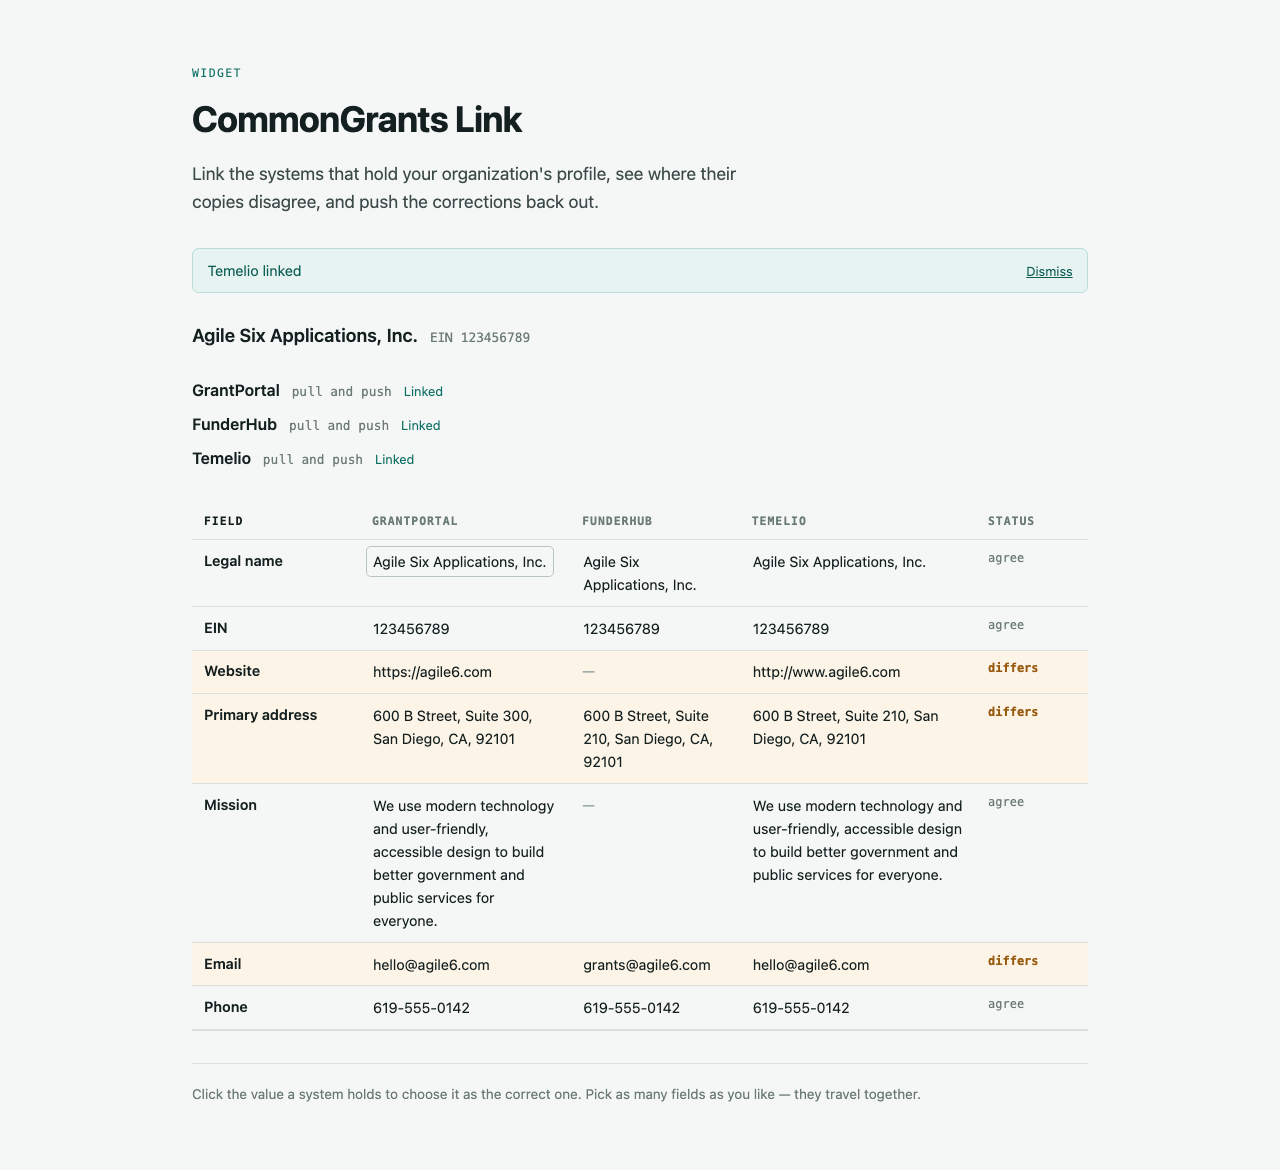
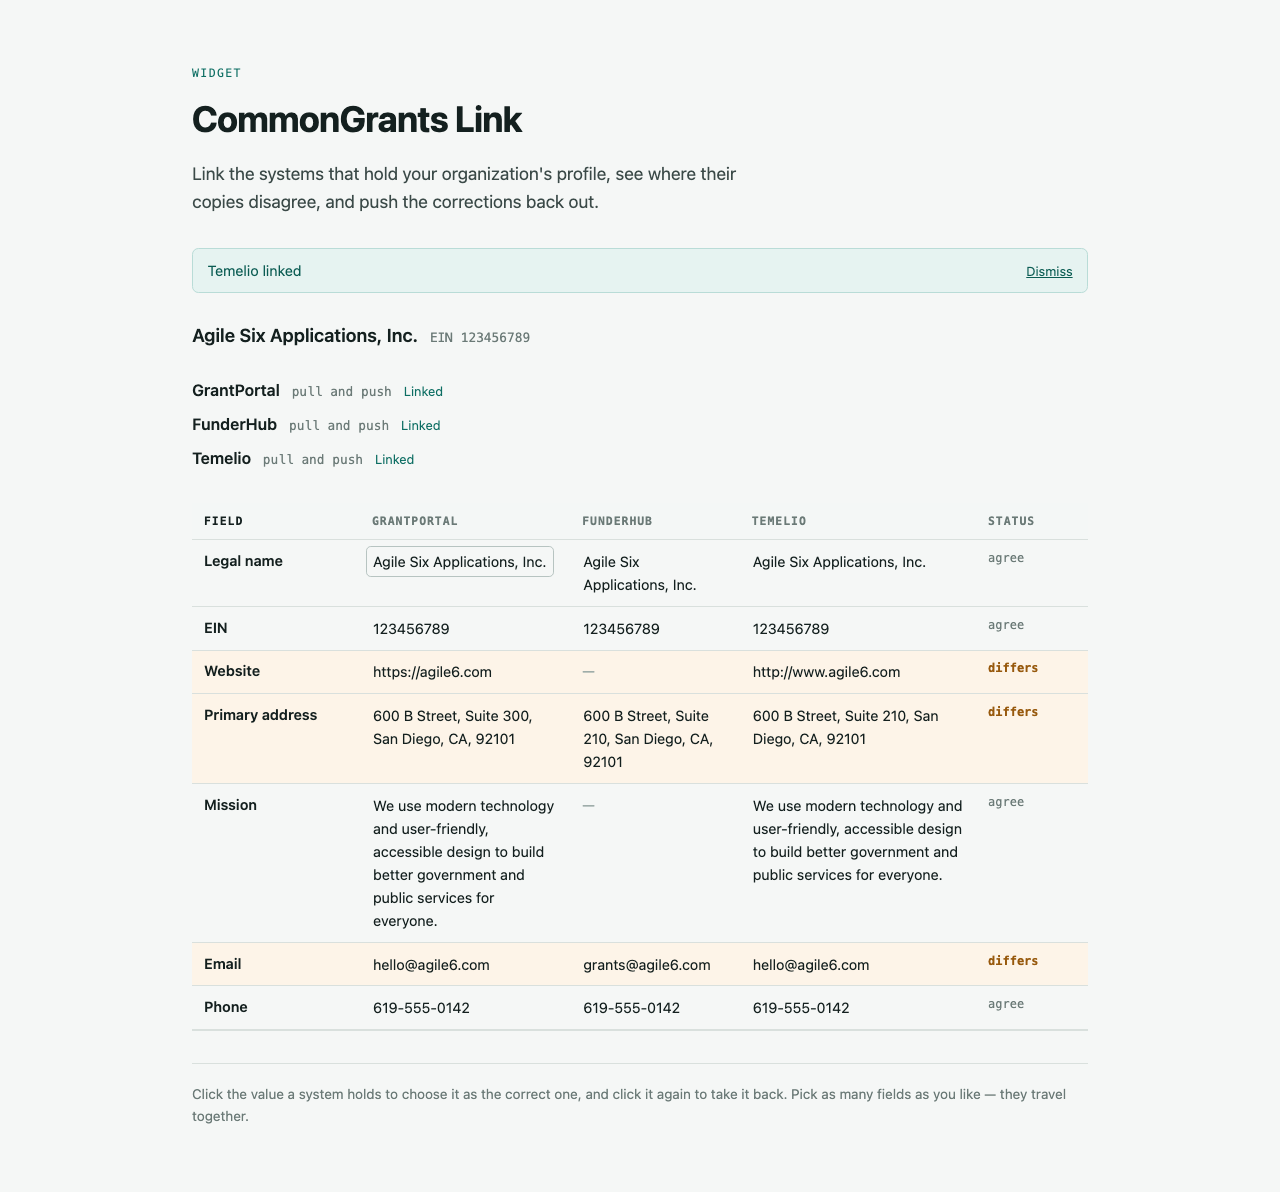
feat(link): clicking the chosen value again takes the choice back
The cells carry `aria-pressed`, so they already described themselves as
toggles to anyone not looking at the highlight — and a control that reports
itself pressed but cannot be unpressed is lying about what a second click does.
Taking a pick back meant finding its Remove button in the panel below instead.

Clicking a *different* cell in the same row still replaces that row's choice
rather than clearing it: one field cannot travel with two values, and toggling
there would make switching between two candidates a two-click operation.

Both halves are pinned, and the prompt and the demo script say so — the
instruction on screen was "click the value to choose it", which was the whole
story before and is now half of it.

diff --git a/e2e/specs/widget.spec.ts b/e2e/specs/widget.spec.ts
@@ -494,6 +494,50 @@ test("picking two rows sends them together, and each pick can be taken back", as
   await expect(page.getByTestId("cell-socials.website-temelio")).toContainText(PORTAL_WEBSITE);
 });
 
+test("clicking the cell that is already chosen takes the choice back", async ({ page }) => {
+  await openConnected(page);
+
+  const cell = page.getByTestId("cell-addresses.primary-portal");
+
+  await page.getByTestId("pick-addresses.primary-portal").click();
+  await expect(cell).toHaveAttribute("data-selected", "true");
+  await expect(page.getByTestId("selected-addresses.primary")).toBeVisible();
+
+  // The same cell again. It carries `aria-pressed`, so it describes itself as
+  // a toggle to anyone not looking at the highlight — a second click has to
+  // undo the first rather than re-assert it.
+  await page.getByTestId("pick-addresses.primary-portal").click();
+  await expect(cell).toHaveAttribute("data-selected", "false");
+  await expect(page.getByTestId("selected-addresses.primary")).toHaveCount(0);
+
+  // Back to nothing chosen, so the panel is offering nothing to send.
+  await expect(page.getByTestId("prompt")).toBeVisible();
+  await expect(page.getByTestId("sync")).toBeHidden();
+});
+
+test("clicking a different cell in a chosen row replaces the choice rather than clearing it", async ({
+  page,
+}) => {
+  await openConnected(page);
+
+  await page.getByTestId("pick-addresses.primary-portal").click();
+
+  // A different system in the same row is a change of mind, not a toggle: one
+  // field cannot travel with two values, and clearing the row here would make
+  // switching between two candidates a two-click operation.
+  await page.getByTestId("pick-addresses.primary-funderhub").click();
+
+  await expect(page.getByTestId("selected-addresses.primary")).toContainText(FUNDERHUB_STREET2);
+  await expect(page.getByTestId("cell-addresses.primary-portal")).toHaveAttribute(
+    "data-selected",
+    "false",
+  );
+  await expect(page.getByTestId("cell-addresses.primary-funderhub")).toHaveAttribute(
+    "data-selected",
+    "true",
+  );
+});
+
 test("unchecking a target survives a later pick in another row", async ({ page }) => {
   await openConnected(page);
 

diff --git a/apps/link/src/routes/+page.svelte b/apps/link/src/routes/+page.svelte
@@ -648,7 +648,14 @@
   }
 
   /**
-   * Take a source's value as the correct one.
+   * Take a source's value as the correct one, or take the choice back.
+   *
+   * Clicking the cell that is already chosen unpicks it. The cells carry
+   * `aria-pressed`, so they describe themselves as toggles to anyone not
+   * looking at the highlight — and a control that says it is pressed but
+   * cannot be unpressed is lying about what a second click will do. Picking a
+   * *different* cell in the same row still replaces that row's choice rather
+   * than adding to it: one field cannot travel with two values.
    *
    * Every other system that holds a record is checked by default: the demo's
    * usual move is "this one is right, fix the rest", and unchecking is cheaper
@@ -657,6 +664,11 @@
    * failed row.
    */
   function pick(path: string, label: string, sourceId: string, value: JsonValue): void {
+    if (selections[path]?.sourceId === sourceId) {
+      unpick(path);
+      return;
+    }
+
     const offered = offeredTargets();
 
     selections = { ...selections, [path]: { path, label, sourceId, value } };
@@ -1043,8 +1055,8 @@
     <section class="panel" data-testid="panel">
       {#if picks.length === 0}
         <p class="prompt" data-testid="prompt">
-          Click the value a system holds to choose it as the correct one. Pick as many fields as you
-          like — they travel together.
+          Click the value a system holds to choose it as the correct one, and click it again to take
+          it back. Pick as many fields as you like — they travel together.
         </p>
       {:else}
         <ul class="picks" data-testid="selection">

diff --git a/docs/demo-script.md b/docs/demo-script.md
@@ -83,8 +83,9 @@ the last step.
     lists two picks — the address from the last step and the website — each with its own
     **Remove**, and they go together: one patch per target, not one per field. (Re-sending the
     address is a harmless no-op; **Remove** it first if you would rather show only the website
-    moving.) Clicking a second value in a row you have already picked replaces that row's choice
-    rather than adding to it, since one field cannot have two values.
+    moving.) Clicking a _different_ value in a row you have already picked replaces that row's choice
+    rather than adding to it, since one field cannot have two values; clicking the one already
+    chosen takes it back, so **Remove** and a second click do the same thing.
 
     Now the beat worth slowing down for: a line above the button reads "FunderHub does not store
     Website. Everything else will be sent." The widget knows before asking — but it does not stop
